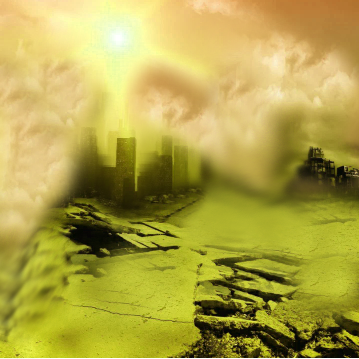
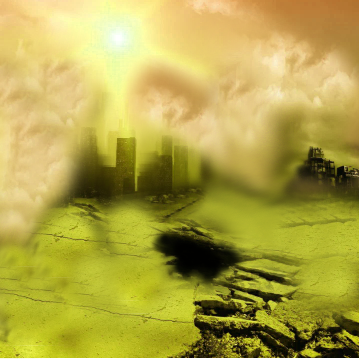
add style monster

Changed region(s): [[0.0919, 0.5209, 0.7047, 0.8886], [0.0, 0.6741, 0.1838, 0.9192], [0.7967, 0.6128, 0.8886, 0.6435]]

diff --git a/src/components/AlienDiv.vue b/src/components/AlienDiv.vue
@@ -2,11 +2,12 @@
 <script></script>
 <style>
 .alien__character {
+  cursor: pointer;
   background-image: url(../img/alien.png);
   background-repeat: no-repeat;
   background-size: cover;
   width: 100px;
   height: 132px;
-  margin-top: 700px;
+  margin-top: 300px;
 }
 </style>

diff --git a/src/components/MonsterDiv.vue b/src/components/MonsterDiv.vue
@@ -16,8 +16,8 @@ export default {
   background-repeat: no-repeat;
   background-size: cover;
   width: 500px;
-  height: 500px;
-  margin-top: 50px;
+  height: 866px;
+  margin-top: -72px;
   margin-right: 50px;
 }
 </style>
